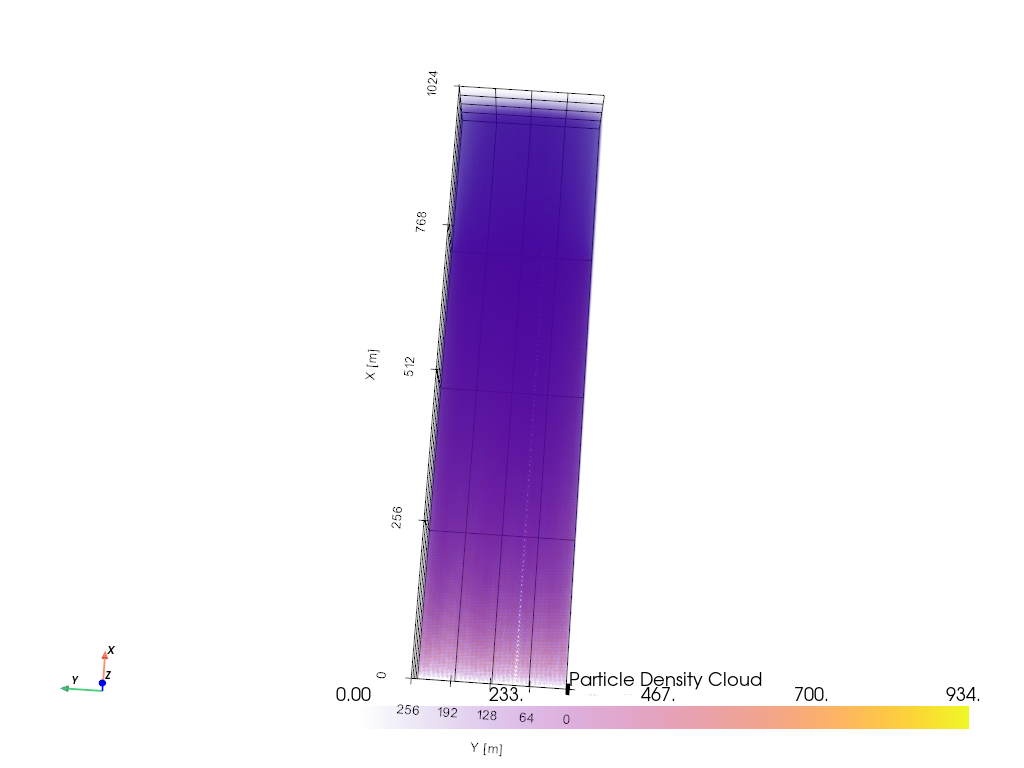
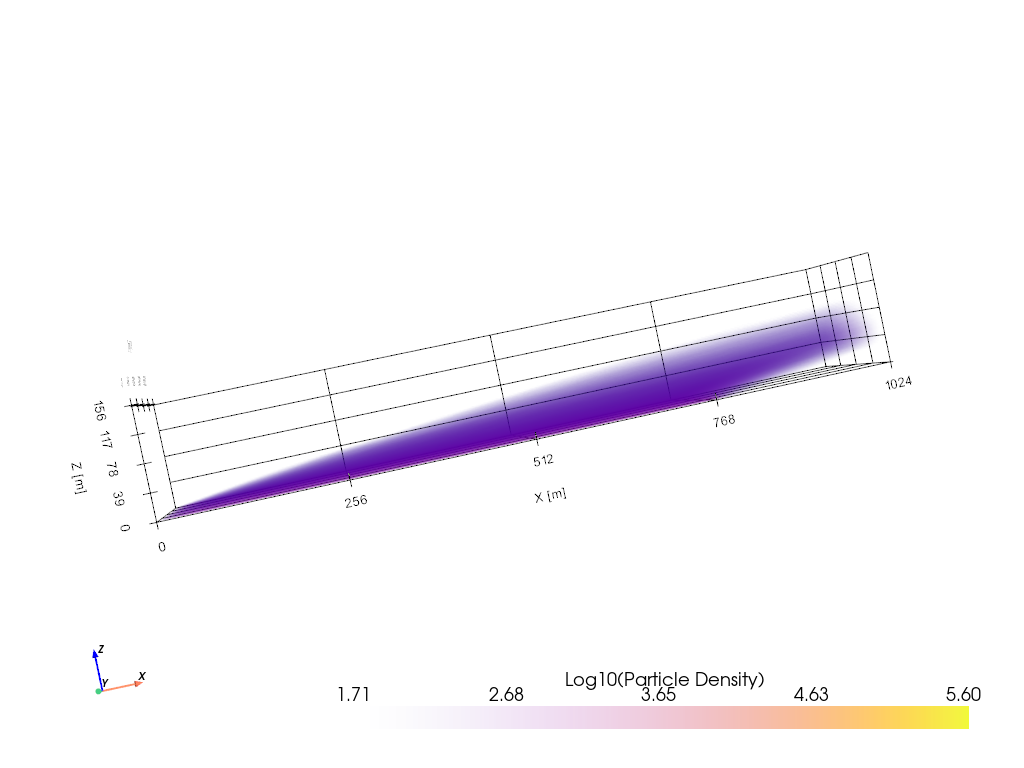
density dvr 3d vis log scale update

diff --git a/plotting_core/density_plots.py b/plotting_core/density_plots.py
@@ -150,10 +150,20 @@ def plot_3d_dvr(map_filepath, save_path, density_dir, min_visible_density, max_v
         spacing=(dx, dx, dz), 
         origin=(0.0, 0.0, 0.0)
     )
-    density_grid.cell_data["Density"] = volume_3d.flatten(order="F")
+
+    cloud_opacity = [0.0, 0.1, 0.3, 0.6, 0.9]
+
+    log_volume = np.log10(volume_3d + 1)
     
-    # DELETE OR COMMENT OUT THIS LINE:
-    # density_grid = density_grid.cell_data_to_point_data() 
+    # Assign the LOGGED data to the PyVista grid instead of the raw data
+    density_grid.cell_data["Log_Density"] = log_volume.flatten(order="F")
+
+    # ==========================================
+    # 3. Update the Transfer Function for Log Values
+    # ==========================================
+    # Now our thresholds must be in log space!
+    log_min = np.log10(min_visible_density + 1)
+    log_max = np.log10(400000 + 1) # Or use np.max(log_volume)
 
     # ==========================================
     # 4. Render the Scene (Fail-Safe Mode)
@@ -172,16 +182,13 @@ def plot_3d_dvr(map_filepath, save_path, density_dir, min_visible_density, max_v
     # Fail-Safe Volume Rendering
     plotter.add_volume(
         density_grid,
-        scalars="Density",
+        scalars="Log_Density",       # Point to the newly logged data
         cmap="plasma", 
-        # 1. Use 'linear' first. It guarantees data > 0 will have some visibility.
-        opacity="linear", 
-        # 2. Let PyVista automatically calculate the clim based on your actual data
-        # clim=[minimum_visible_density, maximum_visible_density], 
-        # 3. Use 'fixed_point' or 'gpu' if 'smart' is failing on your remote node
-        mapper="fixed_point", 
+        opacity=cloud_opacity, 
+        clim=[log_min, log_max],     # Use log limits
+        mapper="smart",
         show_scalar_bar=True,
-        scalar_bar_args={"title": "Particle Density Cloud"},
+        scalar_bar_args={"title": "Log10(Particle Density)"},
         name="Plume"
     )
 

diff --git a/scripts/plot_density_dvr.py b/scripts/plot_density_dvr.py
@@ -16,11 +16,11 @@ def main():
     # 1. Define File Paths
     # ==========================================
     # Adjust these to match your actual lab server or TSUBAME layout
-    map_file = os.path.join("Y:", "map", "map_02_full_roughness.dat")
-    density_directory = os.path.join("Y:", "Particle_PostProcess_Outputs", "20260612_particle_cube_3072", f"{start_step}-{end_step}_density")
+    map_file = os.path.join("Y:", "map", "map_01_flat_plane.dat")
+    density_directory = os.path.join("Y:", "Particle_PostProcess_Outputs", "20260527_particle_flat_3072", f"{start_step}-{end_step}_density")
     
     output_path = os.path.join(
-        "../figures", "density", "3d_dvr", "20260612_particle_cube_3072",
+        "../figures", "density", "3d_dvr", "20260527_particle_flat_3072",
         f"density_3d_dvr_{start_step}-{end_step}.png"
     )
     # ==========================================
@@ -31,7 +31,6 @@ def main():
     
     # Define the exact density thresholds you want to wrap in 3D shells.
     # Start with a wide range, then narrow it down based on what you see.
-    target_isopleths = [0, 100, 500, 2000]
 
     min_visible_density, max_visible_density = 50, 2000
 
